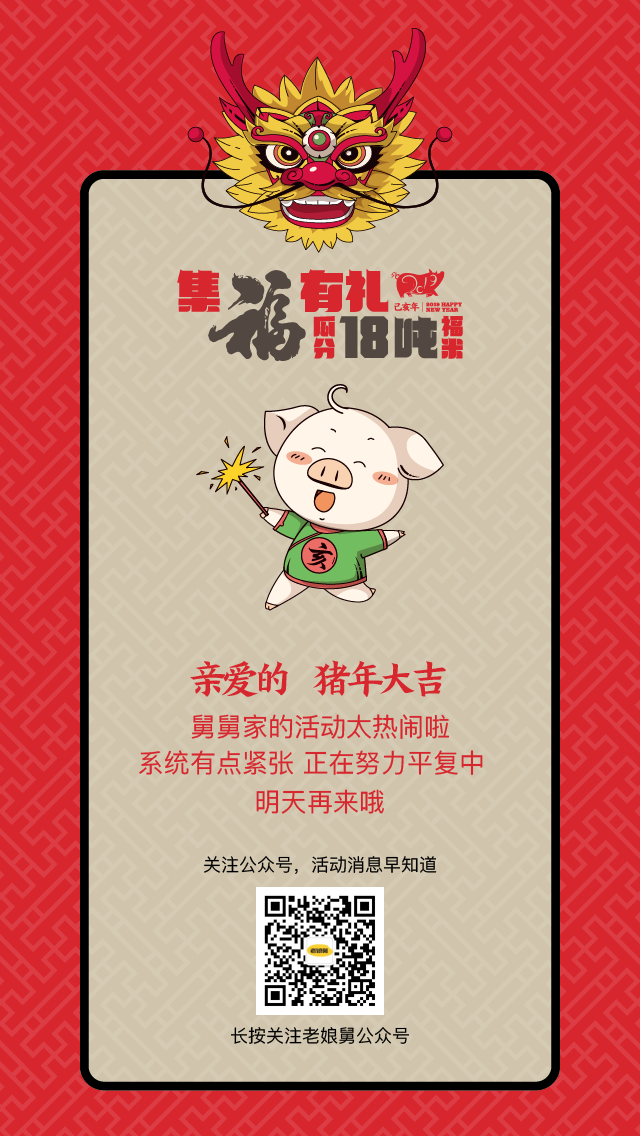
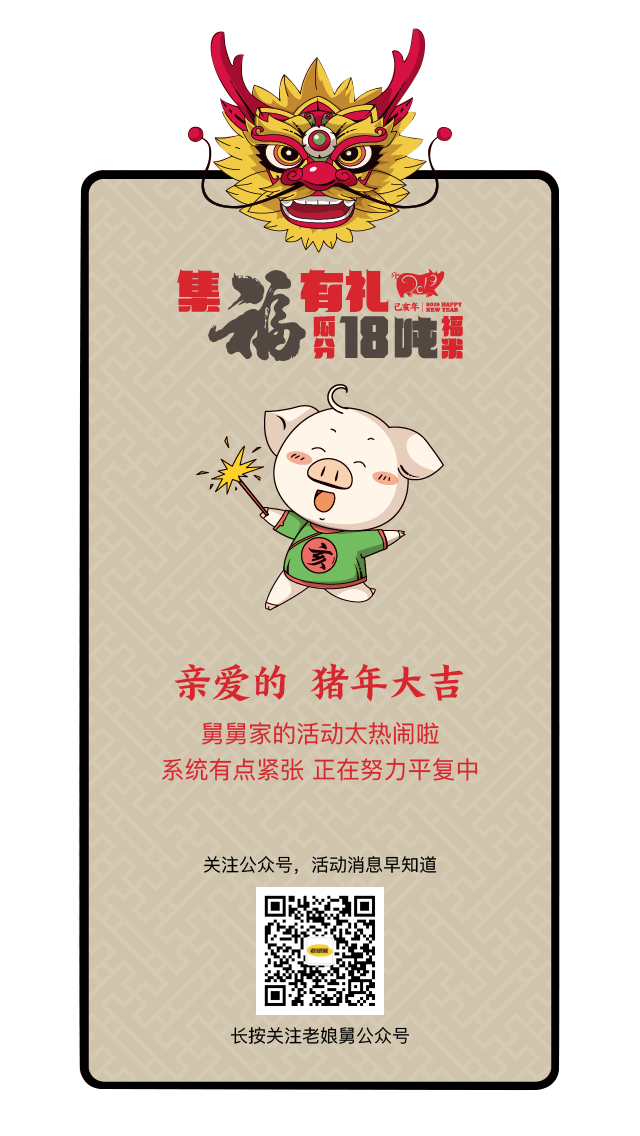
update pro

diff --git a/client/pages/index.vue b/client/pages/index.vue
@@ -1,64 +1,19 @@
 <template>
-  <c-page type="bg1">
+  <c-page>
     <div
-      slot="content"
-      class="home">
-      <top-buttons :actions="actions"/>
-      <img
-        src="~assets/images/home/bt.png"
-        class="imgBt">
-      <div class="footer">
-        <div
-          v-if="luckyTimes > 0"
-          class="upload">
-          <label for="theFile">
-            <img
-              src="~assets/img/btn/btn_sys.png"
-              @click="picker">
-          </label>
-        </div>
-        <div
-          v-else
-          class="upload"
-          @click="showDialog('limit')">
-          <label>
-            <img src="~assets/img/btn/btn_sys.png">
-          </label>
-        </div>
+      slot="content">
+      <div class="landing">
+        <img src="~assets/images/landing.png">
       </div>
     </div>
-    <!--<ai-scan class="scan"/>-->
   </c-page>
 </template>
 <script>
-  /* eslint-disable new-cap,no-unused-vars,no-undef,space-infix-ops */
-  /* global PIXI, Game */
-  import EventBus from '~/utils/event-bus.js'
-
   import CPage from '../components/c-page.vue'
   import {isBrowser} from '~/environment_es'
-  import TopButtons from '../components/top-buttons'
-  import AiScan from '../components/ai-scan'
-  import DialogScan from '../components/dialog/dialog-scan'
-  // import Exif from 'exif-js'
-  // import apiConfig from '~/api.config'
 
   export default {
-    transition: 'fade',
     name: 'Index',
-    // fetch ({store, query, error}) {
-    //   console.log(query)
-    //   if (query.coupon_code) {
-    //     console.log(store.state.user.info.data)
-    //     return this.$store.state.user.info.data
-        //
-        // if (store.state.user.info.data.status === 1 && query.coupon_code !== '') {
-        //   return store.dispatch('loadPrizeCoupon', {
-        //     coupon_code: query.coupon_code
-        //   })
-        // }
-      // }
-    // },
     head () {
       return {
         title: '老娘舅新春集福瓜分18吨福米'
@@ -66,233 +21,51 @@
     },
     components: {
       CPage,
-      TopButtons,
-      AiScan,
-      DialogScan
     },
     data () {
-      return {
-        isScan: false,
-        headerImage: '',
-        picValue: '',
-        localId: '',
-        serverId: '',
-        showClose: true,
-        actions: ['hdjs', 'wdfb']
-      }
-    },
-    computed: {
-      score () {
-        return this.$store.state.ai.data.score
-      },
-      luckyTimes () {
-        return this.$store.state.user.lucky.data.times
-      },
-      userInfo () {
-        return this.$store.state.user.info.data
-      },
-      // 领劵数据
-      coupon () {
-        return this.$store.state.prize.coupon.data
-      },
-    },
-    watch: {
-      coupon (newVal) {
-        if (newVal.receive_status === 2) {
-          this.showDialog('success', {showClose: false})
-        }
-      },
-      score (newVal) {
-        // console.log('score .......')
-        // console.log(newVal)
-        // if (this.score === 100) {
-        // 跳转到集福动画页
-        // setTimeout(() => {
-        //   this.$store.commit('ai/RESET_SCORE')
-        //   EventBus.$emit('show12s', true)
-        // this.$router.push('/page22')
-        // }, 2500)
-
-        // } else {
-        //   setTimeout(() => {
-        //     this.dialog.hide()
-        //   }, 2500)
-        //   this.picValue = ''
-        // }
-      },
-    },
-    mounted () {
-      EventBus.$emit('show12s', false)
-      EventBus.$emit('show6s', false)
-      this.$store.commit('option/SET_MOBILE_LAYOUT', '')
-
-      const coupon_code = this.$route.query.coupon_code
-      if (coupon_code) {
-        // 用于回调页面回来之后处理发劵，领劵
-        if (this.userInfo.status === 1 && coupon_code !== null && coupon_code !== '') {
-          // 领劵
-          // http://demo.micvs.com/crmSession/console/api/coupon/sendCouponByActivity
-          this.$store.dispatch('loadPrizeCoupon', {
-            coupon_code: this.$route.query.coupon_code
-          })
-        }
-      }
-      // this.showDialog('limit', {showClose: false})
-
-      this.$store.commit('ai/RESET_SCORE')
-      this.$store.dispatch('luckyTimes', {
-        openId: this.userInfo.openId
-      })
-
-      EventBus.$on('scan-success', () => {
-        setTimeout(() => {
-          this.dialog.hide()
-          this.$store.commit('ai/RESET_SCORE')
-          EventBus.$emit('show12s', true)
-        }, 2500)
-      })
-      EventBus.$on('scan-failure', () => {
-        // this.showClose = true
-        // setTimeout(() => {
-        //   this.dialog.hide()
-        // }, 2500)
-        this.picValue = ''
-      })
-
-    },
-    methods: {
-      picker () {
-        // console.log('choose image ....')
-        const self = this
-        wx.chooseImage({
-          count: 1, // 默认9
-          sizeType: ['original', 'compressed'], // 可以指定是原图还是压缩图，默认二者都有
-          sourceType: ['camera'],
-          success: function (res) {
-            const tempFilePaths = res.tempFilePaths
-            const localIds = res.localIds; // 返回选定照片的本地ID列表，localId可以作为img标签的src属性显示图片
-            self.localId = localIds[0]
-
-            if (self.localId) {
-              self.showDialog('scan', {
-                imgsrc: self.localId
-              })
-              self.upToWeixinServer(self.localId)
-            }
-          }
-        })
-      },
-      upToWeixinServer (src) {
-        wx.uploadImage({
-          localId: src, // 需要上传的图片的本地ID，由chooseImage接口获得
-          isShowProgressTips: 1, // 默认为1，显示进度提示
-          success: async (res) => {
-            // console.log('上传图片到微信服务完成')
-            // console.log(res)
-            await this.$store.dispatch('checkImage', {
-              mediaId: res.serverId,
-              openId: this.$store.getters.openId
-            })
-          }
-        })
-      },
-      showAlert () {
-        this.dialog = this.$createDialog({
-          type: 'intro',
-          showClose: true
-        })
-        this.dialog.show()
-      },
-      showDialog (type, option) {
-        this.dialog = this.$createDialog({
-          type: type,
-          ...option
-        })
-        this.dialog.show()
-      }
-    },
+      return {}
+    }
   }
 </script>
 
 <style scoped lang="stylus" rel="stylesheet/stylus">
-  .scan
-    z-index: 100
-
-  .c-dialog-content-def
+  .landing
+    display: flex
+    align-items: center
+    justify-content: center
+    flex-direction: column
+    min-height: 100vh
     img
-      width: 332px
-      height: 108px
-
-  .home
-    color: #000
+      width: 640px
+      height: 1136px
+  .notices
+    color: #fff
     display: flex
     align-items: center
     flex-direction: column
-    justify-content: space-between
     min-height: 100vh
-    /*position: absolute*/
-    z-index: 1
-    left: 0
-    width: 100%
-    height: 100%
-    /*background: #ab2d2f;*/
-    background-image: url('~assets/images/home/hn.png')
-    background-size: 640px 1136px
-    overflow: hidden
-
-    .imgBt
-      padding: 145px 112px 0 112px
-      width: 444px
-      height: 176px
-
     h1
+      padding-top: 20px
       font-size: 48px
       font-weight: bold
-      line-height: 100px
-      text-shadow: 0 1px 30px rgba(0, 0, 0, 0.30);
-      opacity: .8
-
+      line-height: 90px
     p
       font-size: $fontsize-large-xxx
       font-weight: bold
-
+    .content
+      flex: 1
+      line-height: 50px
+      padding-top: 25%
+      text-align: center
     .footer
-      /*top: 200px*/
-      position: relative
-      /*flex: 1*/
-      /*display: flex*/
-      /*height: 300px*/
-      /*flex-direction: column*/
-      /*justify-content: flex-end;*/
-      /*align-items: flex-end;*/
-      margin-bottom: 40px
-      color: #e6daa2;
-
-      .upload
-        width: 266px
-        height: 100px
-
-        label
-          position: absolute
-
-          img
-            width: 266px
-            height: 64px
-
-        .file
-          display: none
-
-      a
-        width: 266px
-        height: 200px
-        /*height: 64px*/
-        /*background: url('~assets/images/bg/btn_default_bg.png') no-repeat*/
-        /*background-size: 266px 64px*/
-        display: flex
-        align-items: center
-        justify-content: center
-
-        img
-          width: 266px
-          height: 64px
+      display: flex
+      height: 350px
+      flex-direction: column
+      justify-content: center
+      align-items: center
+      line-height: 80px
+      color: #fff
+      img
+        width: 160px
+        height: 160px
 </style>

diff --git a/client/pages/page41/_code.vue b/client/pages/page41/_code.vue
@@ -64,7 +64,7 @@
     name: 'Index',
     head () {
       return {
-        title: '老娘舅新春集福瓜分18吨福米'
+        title: '预约兑换礼品'
       }
     },
     validate ({params, query}) {

diff --git a/client/pages/page51/_code.vue b/client/pages/page51/_code.vue
@@ -48,7 +48,7 @@
     name: 'Index',
     head () {
       return {
-        title: '老娘舅新春集福瓜分18吨福米'
+        title: '礼品兑换码'
       }
     },
     validate ({params, query}) {
